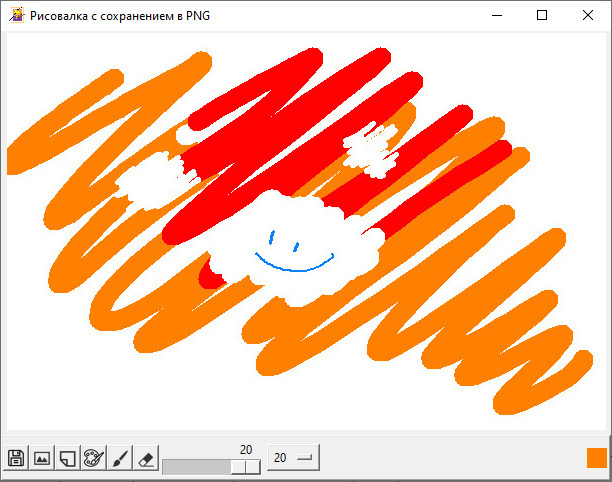
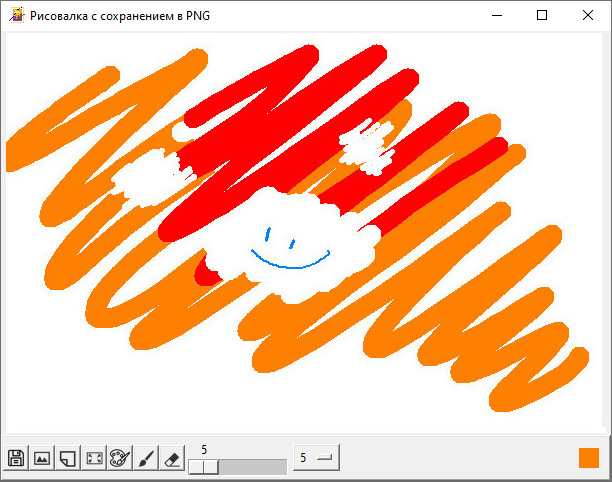
Изменение размера изображения

diff --git a/main.py b/main.py
@@ -1,5 +1,5 @@
 import tkinter as tk
-from tkinter import colorchooser, filedialog, messagebox
+from tkinter import colorchooser, filedialog, messagebox, simpledialog
 from PIL import Image, ImageDraw, ImageTk
 from settings import *
 from utilities import image_to_icon
@@ -31,8 +31,9 @@ class DrawingApp:
         # self.icon_pipette = image_to_icon(ICON_PIPETTE)
         self.icon_palette = image_to_icon(ICON_PALETTE)
         self.icon_eraser = image_to_icon(ICON_ERASER)
+        self.icon_resize = image_to_icon(ICON_RESIZE)
 
-        self.canvas = tk.Canvas(root, width=self.width, height=self.height, bg=self.bg_color)
+        self.canvas = tk.Canvas(self.root, width=self.width, height=self.height, bg=self.bg_color)
         self.canvas.pack(expand=True)
 
         self.last_x, self.last_y = None, None
@@ -59,11 +60,15 @@ class DrawingApp:
         save_button = tk.Button(control_frame, image=self.icon_save, text="Сохранить", command=self.save_image)
         save_button.pack(side=tk.LEFT)
 
-        save_button = tk.Button(control_frame, image=self.icon_insert, text="Вставить", command=self.image_insert)
-        save_button.pack(side=tk.LEFT)
+        insert_button = tk.Button(control_frame, image=self.icon_insert, text="Вставить", command=self.image_insert)
+        insert_button.pack(side=tk.LEFT)
 
         clear_button = tk.Button(control_frame, image=self.icon_new, text="Очистить", command=self.clear_canvas)
         clear_button.pack(side=tk.LEFT)
+
+        resize_button = tk.Button(control_frame, image=self.icon_resize, text="Изменить размер",
+                                  command=self.image_resize)
+        resize_button.pack(side=tk.LEFT)
 
         color_button = tk.Button(control_frame, image=self.icon_palette, text="Палитра", command=self.choose_color)
         color_button.pack(side=tk.LEFT)
@@ -78,8 +83,7 @@ class DrawingApp:
         eraser_button.pack(side=tk.LEFT)
 
         self.canvas_color = tk.Canvas(control_frame, width=20, height=20, bg=self.pen_color)
-        self.canvas_color.pack(side=tk.RIGHT)
-
+        self.canvas_color.pack(side=tk.RIGHT, padx=8)
 
         self.brush_size_scale = tk.Scale(control_frame, from_=5, to=20, orient=tk.HORIZONTAL)
         self.brush_size_scale.pack(side=tk.LEFT)
@@ -121,8 +125,29 @@ class DrawingApp:
         Очищает холст, удаляя все нарисованное, и пересоздает объекты Image и ImageDrawдля нового изображения.
         """
         self.canvas.delete("all")
-        self.image = Image.new("RGB", (self.width, self.height), "white")
+        self.image = Image.new("RGB", (self.width, self.height), color=self.bg_color)
         self.draw = ImageDraw.Draw(self.image)
+
+    def image_resize(self):
+        """
+        Изменяет размер холста. При изменении размера картинка масштабируется.
+        После чего можно продолжить рисовать.
+        """
+        try:
+            x, y = map(int, simpledialog.askstring('Input', 'Введите ширину и высоту изображения (разделитель - пробел):',
+                                       parent=self.root).split())
+        except ValueError:
+            messagebox.showerror(title='Ошибка', message='Вы ввели неверные значения')
+            return
+        except AttributeError:
+            return
+        self.width, self.height = x, y
+        self.image = self.image.resize((x, y))
+        # self.image.show()
+        self.photo = ImageTk.PhotoImage(self.image)
+        self.draw = ImageDraw.Draw(self.image)
+        self.canvas.config(width=self.width, height=self.height)
+        self.canvas.create_image(0, 0, image=self.photo, anchor=tk.NW)
 
     def choose_color(self, event=None):
         """
@@ -131,7 +156,6 @@ class DrawingApp:
         self.pen_color = colorchooser.askcolor(color=self.pen_color)[1]
         self.pen_color_save = self.pen_color
         self.canvas_color['bg'] = self.pen_color
-        # self.canvas_color
 
     def pick_color(self, event):
         """
@@ -169,12 +193,9 @@ class DrawingApp:
         """
         Вставить картинку из файла.
         """
-        image = Image.open(filedialog.askopenfile(filetypes=[("JPG files", ".jpg"), ("PNG files", ".png")]).name)
-        self.photo = ImageTk.PhotoImage(image)
-        # self.image.paste(self.photo, (0, 0, 600, 400))
-        # for x in range(self.photo.width()):
-        #     for y in range(self.photo.height()):
-        #         self.image.putpixel((x, y), self.photo.(x, y))
+        self.image = Image.open(filedialog.askopenfile(filetypes=[("JPG files", ".jpg"), ("PNG files", ".png")]).name)
+        self.photo = ImageTk.PhotoImage(self.image)
+        self.draw = ImageDraw.Draw(self.image)
         self.canvas.create_image(0, 0, image=self.photo, anchor=tk.NW)
 
 

diff --git a/settings.py b/settings.py
@@ -6,6 +6,7 @@ ICON_PIPETTE = './icon/pipette.png'
 ICON_PALETTE = './icon/palette.png'
 ICON_SAVE = './icon/save.png'
 ICON_INSERT = './icon/insert.png'
+ICON_RESIZE = './icon/resize.png'
 
 # TODO Для компиляции с помощью auto-py-to-exe раскомментировать импорты и заменить строки выше на:
 # ICON_NEW = path.join(sys._MEIPASS, './icon/new.png')
@@ -15,3 +16,4 @@ ICON_INSERT = './icon/insert.png'
 # ICON_PALETTE = path.join(sys._MEIPASS, './icon/palette.png')
 # ICON_SAVE = path.join(sys._MEIPASS, './icon/save.png')
 # ICON_INSERT = path.join(sys._MEIPASS, './icon/insert.png')
+# ICON_RESIZE = path.join(sys._MEIPASS, './icon/resize.png')

diff --git a/README.md b/README.md
@@ -11,8 +11,11 @@
 • Добавлена возможность загрузки изображения из файла.  
 • Добавлен инструмент в виде пипетки для выбора цвета.  
 • Добавлены функциональные горячие клавиши быстрого действия Ctrl-C и Ctrl-S.  
-• **(NEW)** Добавлен предварительный просмотр цвета кисти.  
+• Добавлен предварительный просмотр цвета кисти.  
+• **(NEW)** Добавлена возможность изменения размера холста.  
 
+### Изменение размера изображения:
+![img01](https://github.com/Topotun77/painter_example/blob/master/ScreenShots/n003.jpg?raw=true)
 ### Скриншот приложения с элементами `Ластик` и `Кисть`:
 ![img01](https://github.com/Topotun77/painter_example/blob/master/ScreenShots/n002.jpg?raw=true)
 ### Скриншот приложения:
